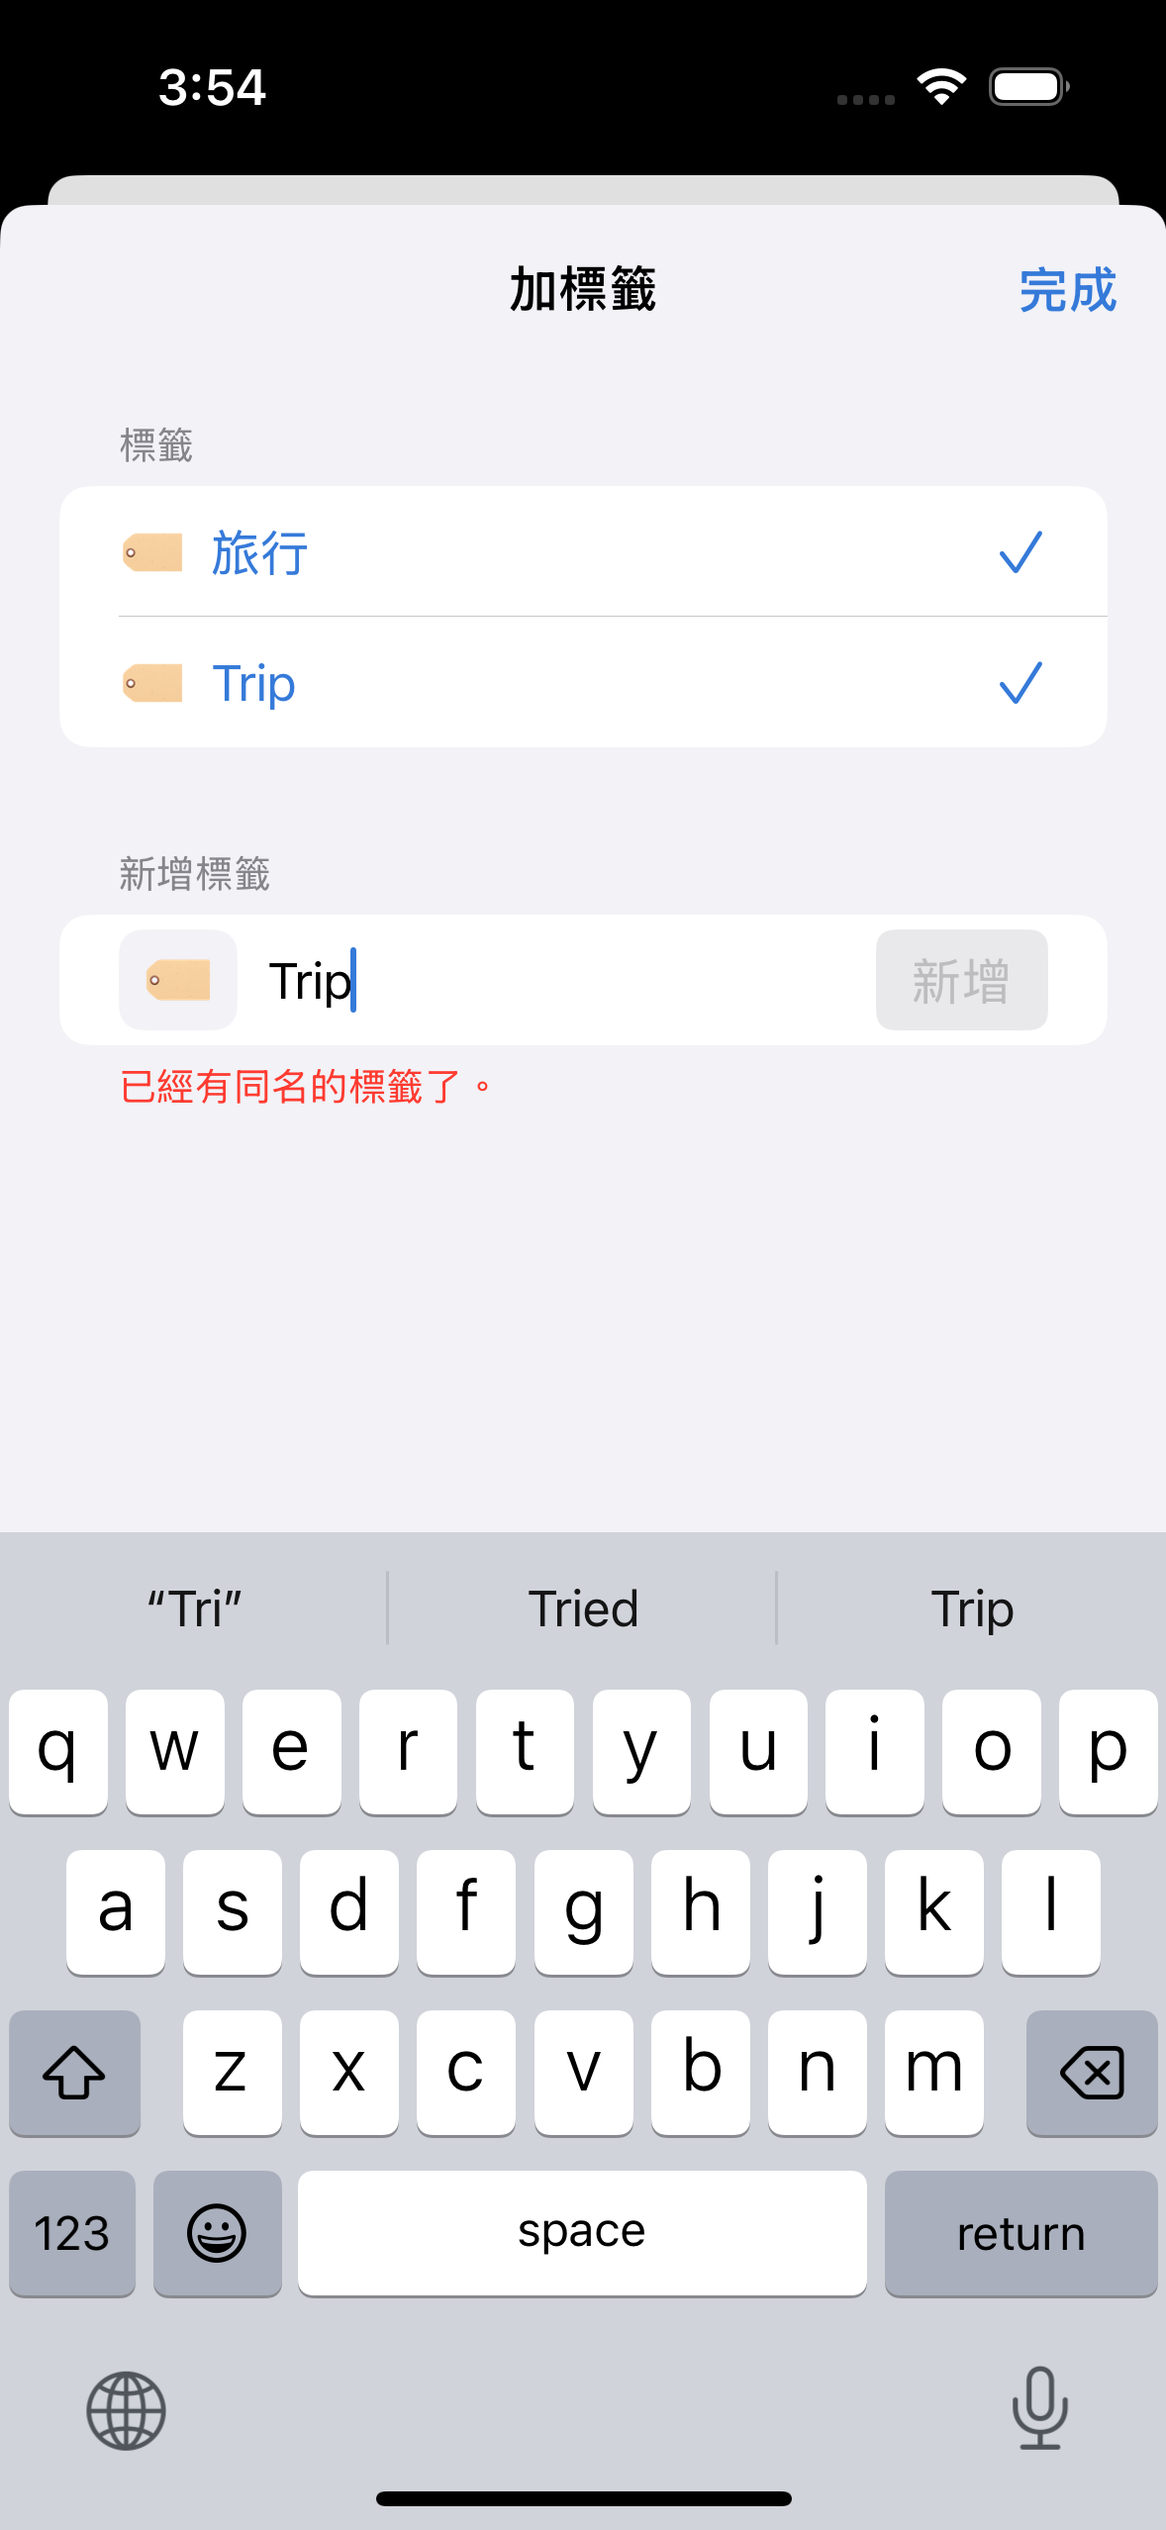
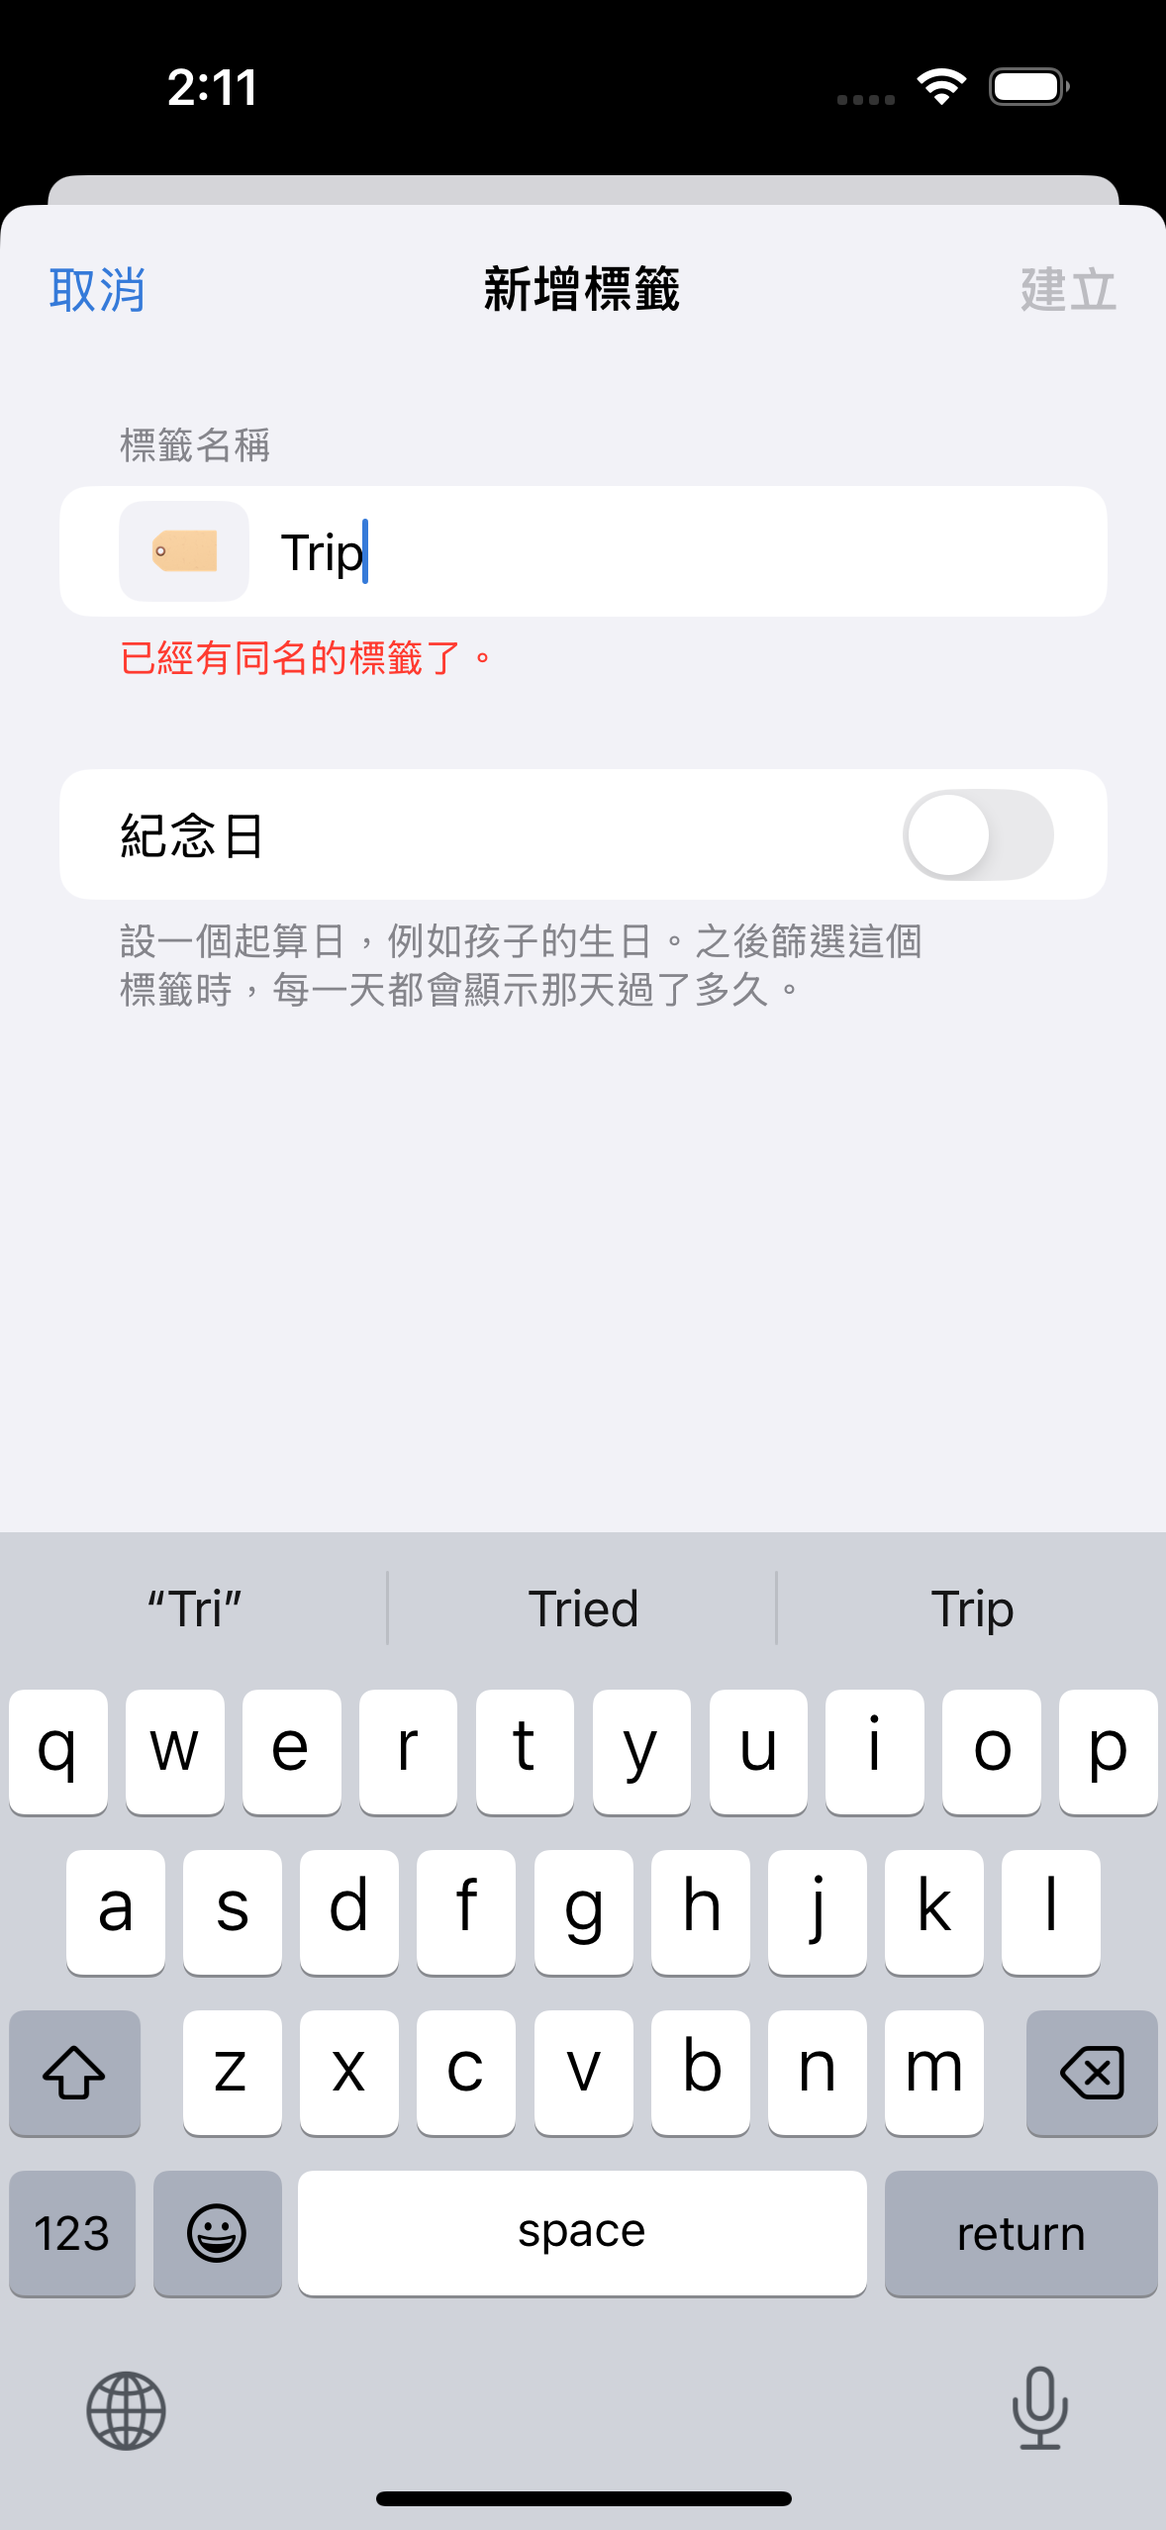
commit

diff --git a/PicDeck/PicDeckUITests/PicDeckSmokeTests.swift b/PicDeck/PicDeckUITests/PicDeckSmokeTests.swift
@@ -711,6 +711,89 @@ final class PicDeckSmokeTests: XCTestCase {
         attachScreenshot(app, name: "32-scrubber-timeline")
     }
 
+    /// 只檢查標籤排序，以及篩選標籤後上方的快速切換列。
+    func testTagOrderAndSwitcherBar() throws {
+        let app = XCUIApplication()
+        app.launchArguments += ["-seedAnniversaryTag"]
+        app.launch()
+
+        grantPhotoAccessIfNeeded(app)
+        XCTAssertTrue(app.buttons["scale.all"].waitForExistence(timeout: 20), "首頁沒有載入")
+
+        // 先到管理頁把第一個標籤往下搬一格。
+        app.tabBars.buttons.element(boundBy: 3).tap()
+        sleep(2)
+        tapByCoordinate(app.buttons["more.manage"])
+        sleep(2)
+        tapByCoordinate(firstButton(in: app, labels: ["標籤", "Tags"]))
+        sleep(2)
+
+        let rows = app.buttons.matching(identifier: "manage.tag.row")
+        guard rows.count >= 2 else {
+            XCTFail("標籤不夠兩個，沒辦法測排序")
+            return
+        }
+        let firstBefore = rows.element(boundBy: 0).label
+        let secondBefore = rows.element(boundBy: 1).label
+
+        let edit = app.buttons["manage.tag.edit"]
+        XCTAssertTrue(edit.waitForExistence(timeout: 8), "標籤清單沒有編輯")
+        tapByCoordinate(edit)
+        sleep(2)
+        attachScreenshot(app, name: "33-tag-reorder-edit")
+
+        // 把第一列拖到第二列下面。
+        let source = rows.element(boundBy: 0)
+        let target = rows.element(boundBy: 1)
+        source.coordinate(withNormalizedOffset: CGVector(dx: 0.92, dy: 0.5))
+            .press(forDuration: 0.9,
+                   thenDragTo: target.coordinate(withNormalizedOffset: CGVector(dx: 0.92, dy: 1.2)))
+        sleep(3)
+
+        let firstAfter = rows.element(boundBy: 0).label
+        XCTAssertEqual(firstAfter, secondBefore, "拖曳後第一列不是原本的第二列")
+        XCTAssertNotEqual(firstAfter, firstBefore, "順序沒有改變")
+        attachScreenshot(app, name: "34-tag-reordered")
+
+        tapByCoordinate(firstButton(in: app, labels: ["完成", "Done"]))
+        sleep(2)
+
+        // 回照片分頁，篩選到堯。
+        app.tabBars.buttons.element(boundBy: 0).tap()
+        sleep(3)
+        XCTAssertEqual(app.buttons.matching(identifier: "tagbar.tag").count, 0,
+                       "還沒篩選就出現標籤切換列")
+
+        openTagFilter(in: app, named: "堯")
+        let sponsor = firstButton(in: app, labels: ["以 NT$99 贊助開發", "Sponsor for NT$99"])
+        if sponsor.waitForExistence(timeout: 4) {
+            tapByCoordinate(sponsor)
+            sleep(3)
+            openTagFilter(in: app, named: "堯")
+        }
+
+        // 上方要出現所有標籤。
+        let chips = app.buttons.matching(identifier: "tagbar.tag")
+        XCTAssertGreaterThan(chips.count, 1, "篩選後上方沒有標籤切換列")
+        XCTAssertTrue(app.buttons["tagbar.all"].exists, "切換列沒有回到所有項目的入口")
+        attachScreenshot(app, name: "35-tag-switcher-bar")
+
+        // 點另一個標籤要能直接換。
+        let other = chips.matching(NSPredicate(format: "label != %@", "堯")).firstMatch
+        XCTAssertTrue(other.waitForExistence(timeout: 5), "切換列只有一個標籤")
+        let otherName = other.label
+        tapByCoordinate(other)
+        sleep(3)
+        XCTAssertTrue(app.staticTexts[otherName].exists, "點了切換列卻沒有換標籤：\(otherName)")
+        attachScreenshot(app, name: "36-tag-switched")
+
+        // 回到所有項目，切換列要收起來。
+        tapByCoordinate(app.buttons["tagbar.all"])
+        sleep(3)
+        XCTAssertEqual(app.buttons.matching(identifier: "tagbar.tag").count, 0,
+                       "回到所有項目後切換列還在")
+    }
+
     // MARK: - 工具
 
     private func grantPhotoAccessIfNeeded(_ app: XCUIApplication) {

diff --git a/PicDeck/PicDeck/Views/TagSwitcherBar.swift b/PicDeck/PicDeck/Views/TagSwitcherBar.swift
@@ -1,0 +1,88 @@
+import SwiftUI
+
+/// 篩選到某個標籤之後，在最上面列出所有標籤，方便一鍵換一個看。
+///
+/// 只有正在依標籤篩選時才出現，平常瀏覽不會佔版面。
+/// 順序跟著管理頁裡排好的順序走。
+struct TagSwitcherBar: View {
+    /// 目前選中的標籤。
+    let selected: UUID?
+    let onPick: (PhotoTag) -> Void
+    /// 回到所有項目。
+    let onClear: () -> Void
+
+    @EnvironmentObject private var tagStore: TagStore
+
+    var body: some View {
+        ScrollViewReader { proxy in
+            ScrollView(.horizontal, showsIndicators: false) {
+                HStack(spacing: 8) {
+                    clearChip
+
+                    ForEach(tagStore.tags) { tag in
+                        chip(for: tag)
+                            .id(tag.id)
+                    }
+                }
+                .padding(.horizontal, 12)
+                .padding(.vertical, 8)
+            }
+            .background(.bar)
+            .overlay(alignment: .bottom) {
+                Divider()
+            }
+            .onAppear { scroll(proxy) }
+            .onChange(of: selected) { _ in scroll(proxy) }
+        }
+    }
+
+    private var clearChip: some View {
+        Button {
+            onClear()
+        } label: {
+            Text("All Items")
+                .font(.footnote.weight(.medium))
+                .padding(.horizontal, 12)
+                .padding(.vertical, 7)
+                .background(Color(.tertiarySystemFill), in: Capsule())
+                .foregroundStyle(.primary)
+        }
+        .buttonStyle(.plain)
+        .accessibilityIdentifier("tagbar.all")
+    }
+
+    private func chip(for tag: PhotoTag) -> some View {
+        let isSelected = tag.id == selected
+
+        return Button {
+            onPick(tag)
+        } label: {
+            HStack(spacing: 5) {
+                IconLabel(raw: tag.symbol, size: 14)
+                Text(tag.name)
+                    .font(.footnote.weight(isSelected ? .semibold : .regular))
+            }
+            .padding(.horizontal, 12)
+            .padding(.vertical, 7)
+            .background(isSelected ? Color.accentColor.opacity(0.18) : Color(.tertiarySystemFill),
+                        in: Capsule())
+            .overlay {
+                if isSelected {
+                    Capsule().stroke(Color.accentColor, lineWidth: 1.5)
+                }
+            }
+            .foregroundStyle(isSelected ? Color.accentColor : .primary)
+        }
+        .buttonStyle(.plain)
+        .accessibilityLabel(tag.name)
+        .accessibilityIdentifier("tagbar.tag")
+    }
+
+    /// 把選中的那顆捲到看得見的地方。
+    private func scroll(_ proxy: ScrollViewProxy) {
+        guard let selected else { return }
+        withAnimation(.easeOut(duration: 0.2)) {
+            proxy.scrollTo(selected, anchor: .center)
+        }
+    }
+}

diff --git a/PicDeck/PicDeck/Views/PhotosTabView.swift b/PicDeck/PicDeck/Views/PhotosTabView.swift
@@ -38,6 +38,12 @@ struct PhotosTabView: View {
     var body: some View {
         NavigationStack {
             VStack(spacing: 0) {
+                // 依標籤篩選時，上面列出所有標籤方便快速換一個看。
+                if selectedTagID != nil {
+                    TagSwitcherBar(selected: selectedTagID,
+                                   onPick: { choose(.tag($0.id)) },
+                                   onClear: { choose(.filter(.all)) })
+                }
                 content
                 scalePicker
             }
@@ -454,9 +460,8 @@ struct PhotosTabView: View {
         if case .tag(let id) = selection, let current = tagStore.tag(withID: id) {
             picked.append(current)
         }
-        let rest = tags
-            .filter { tag in !picked.contains(where: { $0.id == tag.id }) }
-            .sorted { tagStore.usageCount(of: $0.id) > tagStore.usageCount(of: $1.id) }
+        // 順序由使用者在管理頁排好，這裡就照那個順序取前幾個。
+        let rest = tags.filter { tag in !picked.contains(where: { $0.id == tag.id }) }
         picked.append(contentsOf: rest.prefix(shortcutTagLimit - picked.count))
         return picked
     }

diff --git a/PicDeck/PicDeck/Views/LibraryManagerView.swift b/PicDeck/PicDeck/Views/LibraryManagerView.swift
@@ -217,11 +217,23 @@ struct TagManagerList: View {
                             tagStore.deleteTag(id: tagStore.tags[index].id)
                         }
                     }
+                    .onMove { source, destination in
+                        tagStore.moveTags(fromOffsets: source, toOffset: destination)
+                    }
                 }
             } header: {
-                Text("Tags")
+                HStack {
+                    Text("Tags")
+                    Spacer()
+                    if tagStore.tags.count > 1 {
+                        EditButton()
+                            .font(.footnote)
+                            .textCase(nil)
+                            .accessibilityIdentifier("manage.tag.edit")
+                    }
+                }
             } footer: {
-                Text("Open a tag to change its icon or give it a start date, such as a child's birthday.")
+                Text("Open a tag to change its icon or give it a start date. Tap Edit to drag them into the order you want.")
             }
         }
         .scrollDismissesKeyboard(.immediately)

diff --git a/PicDeck/PicDeck/Views/IconPickerView.swift b/PicDeck/PicDeck/Views/IconPickerView.swift
@@ -238,8 +238,19 @@ struct IconPickerView: View {
 
     // MARK: - 資料
 
+    /// 最近使用只列目前這一頁的類型，表情符號那頁就不要混進系統圖示。
     private var recents: [String] {
-        recentsRaw.split(separator: ",").map(String.init).filter { !$0.isEmpty }
+        recentsRaw
+            .split(separator: ",")
+            .map(String.init)
+            .filter { value in
+                guard !value.isEmpty else { return false }
+                switch AppIcon.decode(value) {
+                case .emoji: return tab == .emoji
+                case .symbol: return tab == .symbol
+                case .none: return false
+                }
+            }
     }
 
     private var groups: [IconCatalog.Group] {

diff --git a/PicDeck/PicDeck/Services/TagStore.swift b/PicDeck/PicDeck/Services/TagStore.swift
@@ -210,6 +210,12 @@ final class TagStore: ObservableObject {
         return true
     }
 
+    /// 調整標籤的顯示順序。這個順序會套用到篩選選單、加標籤與管理頁。
+    func moveTags(fromOffsets source: IndexSet, toOffset destination: Int) {
+        tags.move(fromOffsets: source, toOffset: destination)
+        scheduleSave()
+    }
+
     /// 釘選且有起算日的標籤，依建立順序。這些會顯示在時間軸與日記的日期旁邊。
     var pinnedAnniversaryTags: [PhotoTag] {
         tags.filter { $0.isPinned && $0.hasAnniversary }

diff --git a/docs/dev/測試與Demo指南.md b/docs/dev/測試與Demo指南.md
@@ -131,7 +131,8 @@ xcodebuild test-without-building -scheme PicDeck \
 | `testCoreFlow` | 完整流程，含多選與批次操作 | 3.5 分鐘 |
 | `testDuplicateTagNameIsRejected` | 只驗標籤名稱不可重複 | 45 秒 |
 | `testAnniversaryTagAndJournalLayout` | 紀念日換算、只在篩選時顯示、日記卡片版面 | 2 分鐘 |
-| `testIconPickerAndLibraryManager` | 圖示選擇器與管理相簿／標籤 | 85 秒 |
+| `testIconPickerAndLibraryManager` | 圖示選擇器、配色盤、標籤表單、管理相簿 | 95 秒 |
+| `testScrubber` | 右側拖拉軸的年份刻度與日期區間 | 32 秒 |
 
 圖示存成一個字串，所以舊資料不用搬：表情符號直接存字元本身，系統圖示存成 `sf:<名稱>#<顏色>`，空字串代表沒有圖示。
 
@@ -148,6 +149,8 @@ xcodebuild test-without-building -scheme PicDeck \
 | 年、月、日 | 6 年 1 個月 15 天 | 由月曆的年月日差換算 |
 
 先跑過一次 `build-for-testing` 之後，改測試碼再用 `test-without-building` 可以省下重新編譯的時間。
+
+**只驗這次改到的部分。** 沒有動到的畫面不用重跑，用 `-only-testing` 指定就好；只有在改到共用元件、確實會影響其他畫面時，才多跑受影響的那幾個。
 
 把測試過程的截圖抓出來：
 
@@ -267,7 +270,12 @@ v0.1.0 已實作的核心流程：
 | 自訂標籤：長按照片或審核畫面加標籤（免費）、標籤篩選（付費）、更多分頁管理標籤 | 完成 |
 | 標籤名稱不可重複，忽略前後空白與大小寫、全形半形差異，改名也擋重複 | 完成 |
 | 標籤紀念日：起算日 + 五種換算（D-day、日數、週數、月數、年月日） | 完成 |
-| 共用圖示選擇器：表情符號／系統圖示兩頁、搜尋、隨機、移除、最近使用、圖示配色 | 完成 |
+| 共用圖示選擇器：表情符號／系統圖示兩頁、搜尋、隨機、移除、最近使用（分頁各自獨立） | 完成 |
+| 圖示配色盤：十二個內建色點 + 自訂顏色，顯示色點不顯示文字 | 完成 |
+| 標籤表單：建立與編輯共用一張，含圖示、名稱、紀念日 | 完成 |
+| 照片右側拖拉軸：把手停在中下方，拖動顯示年份刻度與畫面日期區間 | 完成 |
+| 篩選選單的標籤收成下一層，超過十個時提供可搜尋的「全部標籤」 | 完成 |
+| 日記分頁跟著篩選走 | 完成 |
 | 日記心情與標籤符號共用同一個選擇器 | 完成 |
 | 更多 → 管理相簿與標籤；資料夾分頁右上角也有同一個入口 | 完成 |
 | 相簿新增、改名、刪除（刪相簿不刪照片），同名相簿擋下來 | 完成 |

diff --git a/docs/product/PicDeck 產品企劃.md b/docs/product/PicDeck 產品企劃.md
@@ -86,7 +86,11 @@ flowchart TD
 | MVP | 長按照片的操作選單，與整理的審核畫面一致：寫日記、標籤、喜愛、加到相冊（子選單列出本機相簿） | 自訂 |
 | MVP | 自訂標籤：長按照片或在審核畫面加標籤（免費），篩選選單可依標籤篩選（付費） | Clutter |
 | MVP | 標籤名稱不可重複：比對時去掉前後空白，且忽略大小寫與全形半形差異，重複時「新增」停用並顯示提示；改名同樣擋重複 | 自訂 |
-| MVP | 共用的圖示選擇器（參考 Notion）：表情符號與系統圖示兩頁、關鍵字搜尋、隨機、移除、最近使用；系統圖示那頁可以挑顏色。標籤符號與日記心情都用同一個 | Notion |
+| MVP | 共用的圖示選擇器（參考 Notion）：表情符號與系統圖示兩頁、關鍵字搜尋、隨機、移除、最近使用（只列當頁類型）；系統圖示那頁可以挑內建色或自訂色。標籤符號與日記心情都用同一個 | Notion |
+| MVP | 標籤只有一張表單：圖示、名稱、紀念日。建立與編輯共用，從加標籤或管理頁的「建立標籤」按鈕開啟 | 自訂 |
+| MVP | 照片右側的拖拉軸：平常停在中下方方便單手操作，按住拖動時顯示年份刻度與目前畫面的日期區間，放開後停留一下再收起 | 相冊助手、iOS 照片 |
+| MVP | 篩選選單把標籤收成下一層；標籤超過十個時只列常用的，其餘進「全部標籤」的可搜尋清單 | 自訂 |
+| MVP | 日記分頁跟著篩選走，只列出有照片落在篩選結果裡的日記 | 自訂 |
 | MVP | 管理相簿與標籤：同一頁兩個分頁。相簿可新增、改名、刪除（照片留在圖庫）；標籤可新增、改圖示、改名、刪除，並從這裡設紀念日 | 自訂 |
 | MVP | 標籤可綁紀念日：設一個起算日，換算方式有 D-day、日數、週數、月數、年月日五種，瀏覽某一天時顯示那天過了多久，例如孩子在那天幾歲 | 紀念日類 App |
 | MVP | 紀念日只在「篩選到該標籤」時顯示，位置是時間軸的日期標題與日記卡片的日期下方；沒篩選時日期標題維持原樣 | 自訂 |
